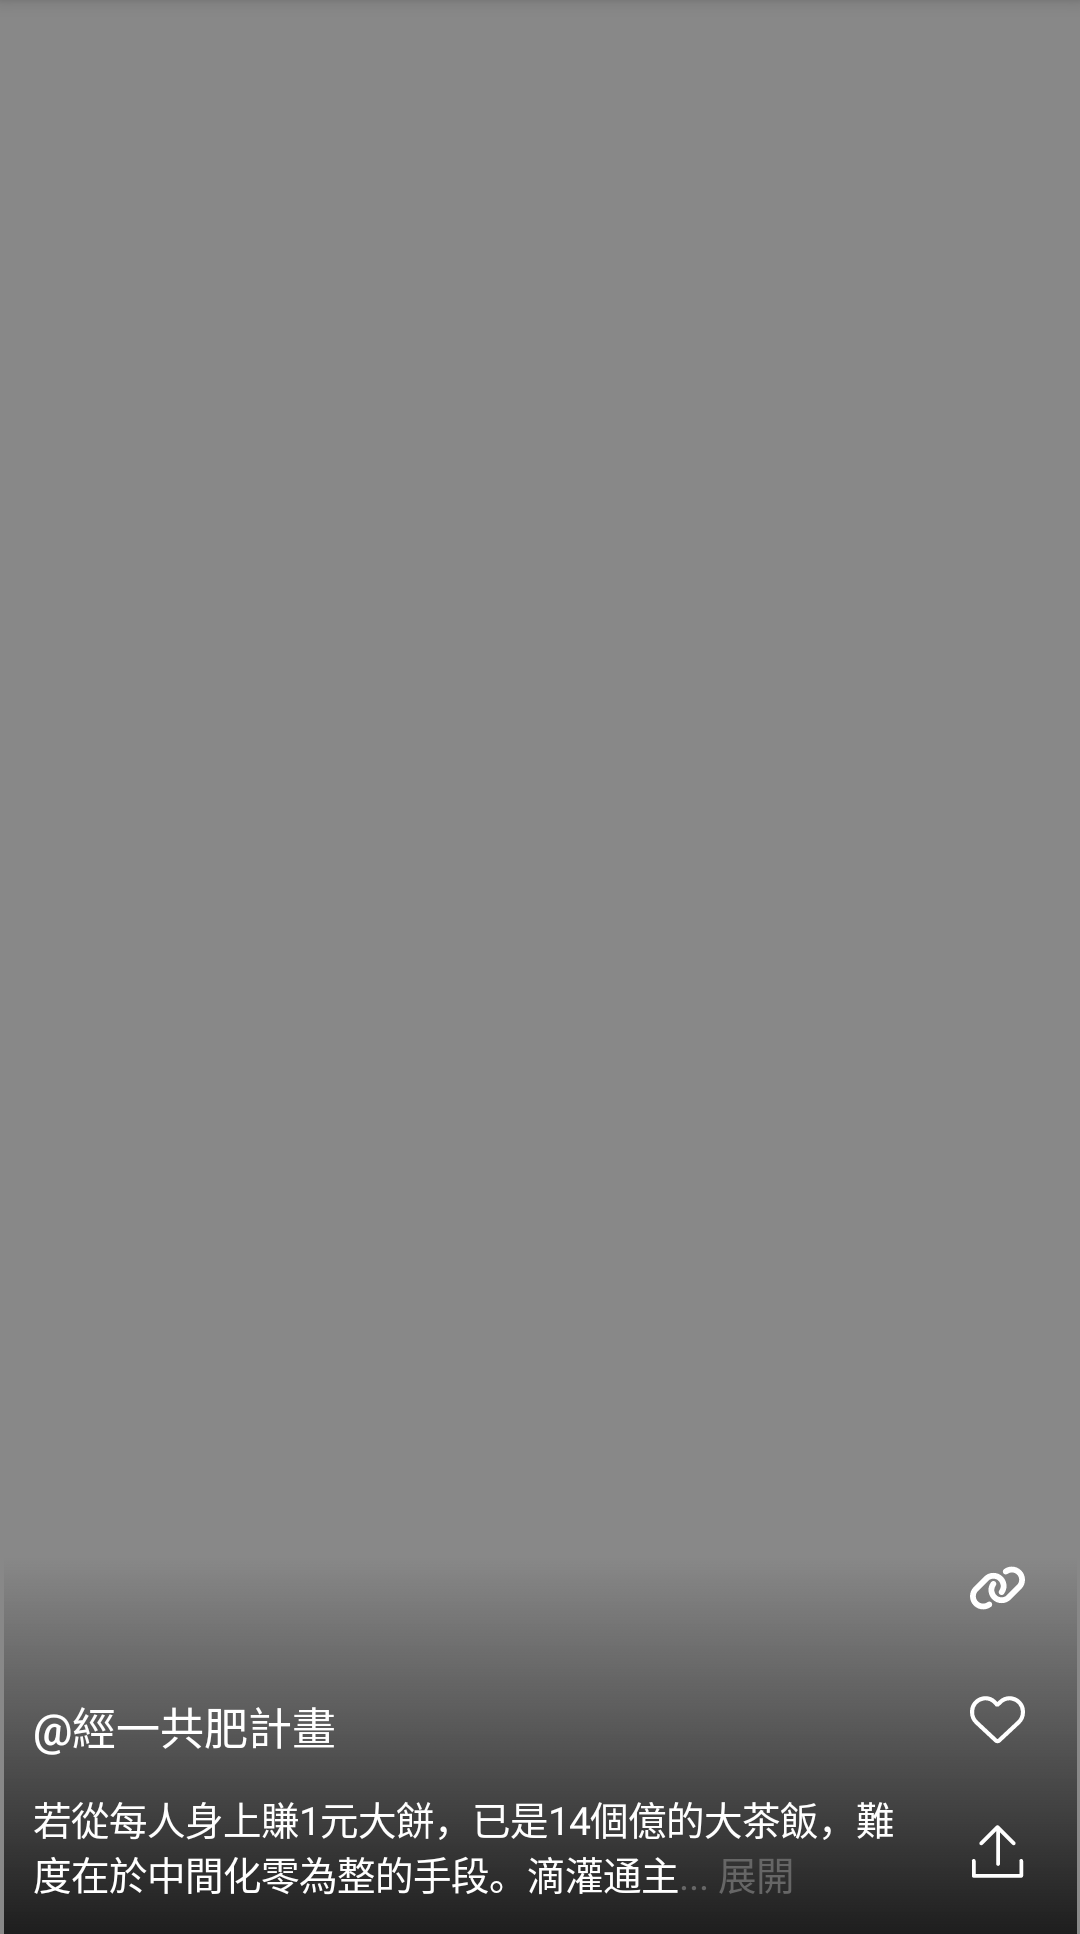
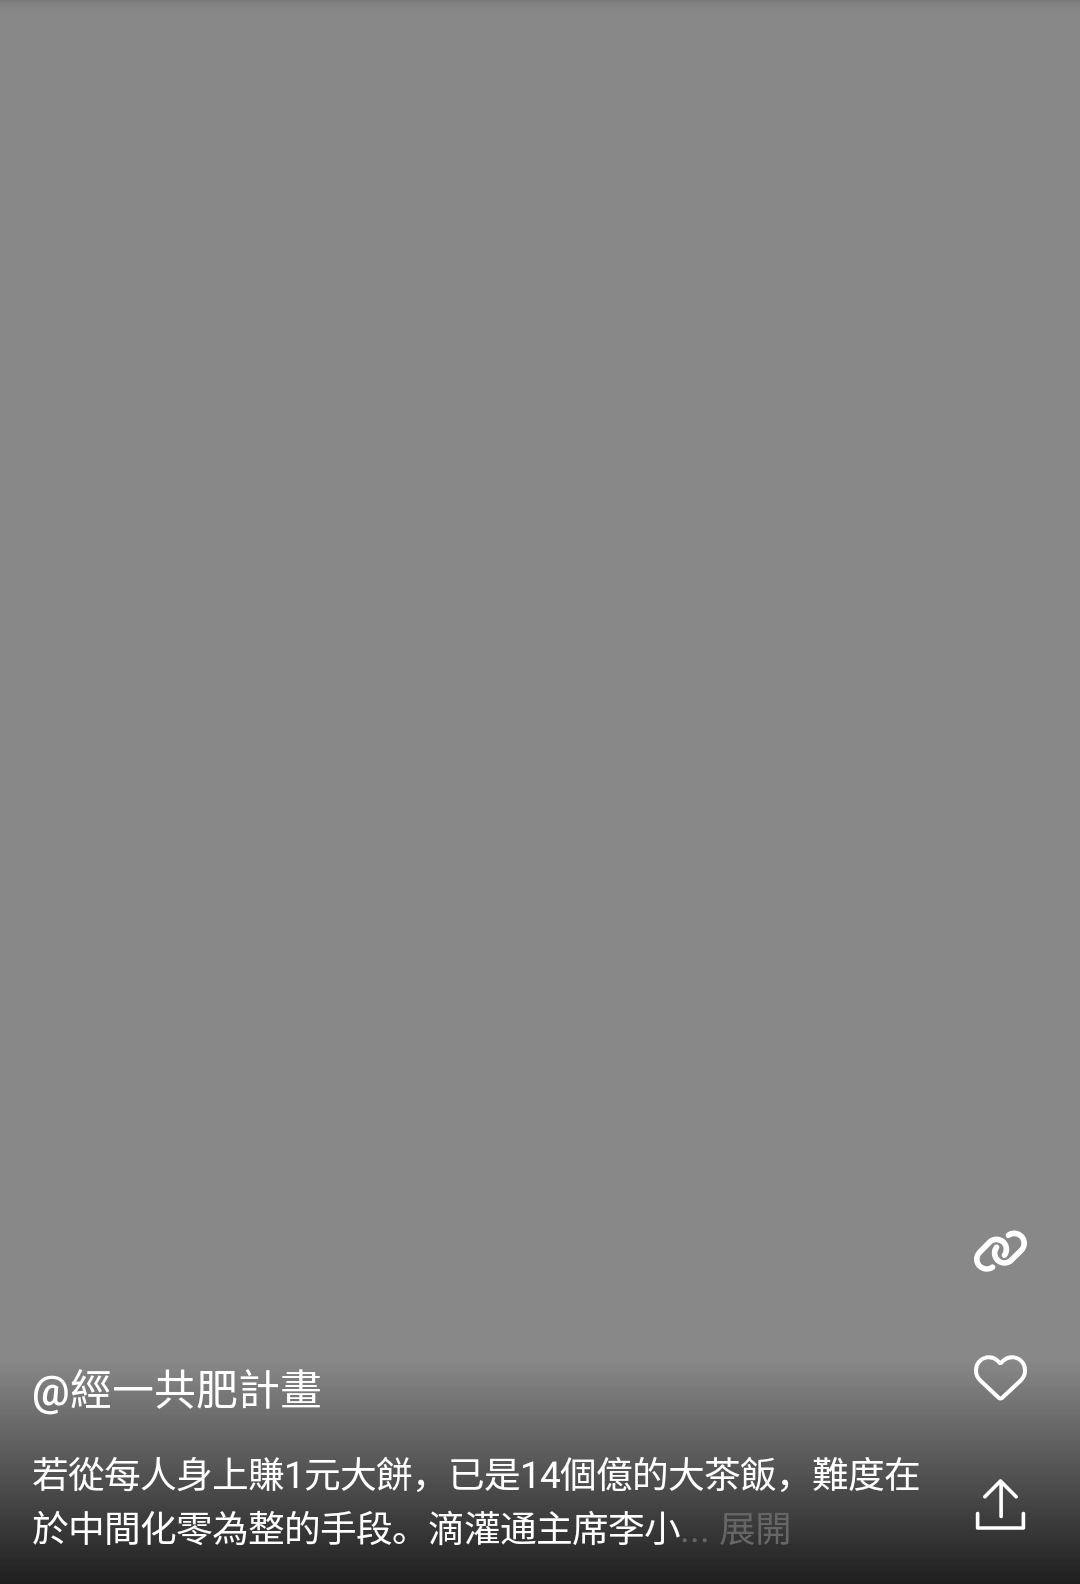
[[AOS] Instagram alike Pager ](https://app.clickup.com/t/865d1e1wk)

Changed region(s): [[0.0, 0.7734, 1.0, 1.0], [0.8861, 0.928, 0.9472, 0.9899]]

diff --git a/mobile-design/src/androidTest/java/com/nmg/mobile/design/reel/ReelPagerTest.kt b/mobile-design/src/androidTest/java/com/nmg/mobile/design/reel/ReelPagerTest.kt
@@ -1,0 +1,53 @@
+package com.nmg.mobile.design.reel
+
+import android.content.Context
+import androidx.compose.foundation.background
+import androidx.compose.foundation.layout.Box
+import androidx.compose.ui.Modifier
+import androidx.compose.ui.graphics.Color
+import androidx.compose.ui.test.junit4.createComposeRule
+import androidx.test.platform.app.InstrumentationRegistry
+import com.karumi.shot.ScreenshotTest
+import com.nmg.mobile.design.theme.NMGTheme
+import com.nmg.mobile.design.widgets.reel.ReelPager
+import com.nmg.mobile.design.widgets.reel.ReelPlayerData
+import org.junit.Before
+import org.junit.Rule
+import org.junit.Test
+
+class ReelPagerTest : ScreenshotTest {
+    @get:Rule
+    val composeRule = createComposeRule()
+
+    lateinit var instrumentationContext: Context
+
+    @Before
+    fun setup() {
+        instrumentationContext = InstrumentationRegistry.getInstrumentation().context
+    }
+
+
+    @Test
+    fun test_ReelPager() {
+        composeRule.setContent {
+            NMGTheme {
+                Box(modifier = Modifier.background(Color.Gray)) {
+                    val list = mutableListOf<ReelPlayerData>()
+                    for (item in 1..10) {
+                        list.add(object : ReelPlayerData {
+                            override var title: String = "@經一共肥計畫 $item"
+                            override var desc: String = "若從每人身上賺1元大餅，已是14個億的大茶飯，難度在於中間化零為整的手段。滴灌通主席李小加就想到了破解方案，兼開發出複利生財的投資模式，有如太極生兩儀、兩儀生四象。薑是老的辣，61歲的他下海創業，把生意經的算盤敲得響噹噹。 $item"
+                        })
+                    }
+                    NMGTheme {
+                        ReelPager(list = list)
+                    }
+                }
+            }
+        }
+        Thread.sleep(1000)
+        compareScreenshot(composeRule)
+    }
+
+
+}

diff --git a/mobile-design/src/main/java/com/nmg/mobile/design/widgets/reel/ReelPager.kt b/mobile-design/src/main/java/com/nmg/mobile/design/widgets/reel/ReelPager.kt
@@ -1,0 +1,46 @@
+package com.nmg.mobile.design.widgets.reel
+
+import androidx.compose.foundation.ExperimentalFoundationApi
+import androidx.compose.foundation.layout.Box
+import androidx.compose.foundation.layout.fillMaxHeight
+import androidx.compose.foundation.layout.fillMaxWidth
+import androidx.compose.foundation.pager.VerticalPager
+import androidx.compose.foundation.pager.rememberPagerState
+import androidx.compose.runtime.Composable
+import androidx.compose.ui.Modifier
+import androidx.compose.ui.tooling.preview.Preview
+import com.nmg.mobile.design.theme.NMGTheme
+
+@OptIn(ExperimentalFoundationApi::class)
+@Composable
+public fun ReelPager(list: MutableList<ReelPlayerData>) {
+    // Display 10 items
+    Box(modifier = Modifier
+        .fillMaxWidth()
+        .fillMaxHeight()) {
+//        val nestedScrollConnection = object: NestedScrollConnection {
+//
+//        }
+
+        val pagerState = rememberPagerState(initialPage = 0)
+        VerticalPager(pageCount = 10, state = pagerState) {
+            ReelPlayer(item = list[it]) {
+
+            }
+        }
+    }
+}
+@Preview(showBackground = true)
+@Composable
+public fun ReelPagerPreview() {
+    val list = mutableListOf<ReelPlayerData>()
+    for (item in 1..10) {
+        list.add(object : ReelPlayerData {
+            override var title: String = "@經一共肥計畫 $item"
+            override var desc: String = "若從每人身上賺1元大餅，已是14個億的大茶飯，難度在於中間化零為整的手段。滴灌通主席李小加就想到了破解方案，兼開發出複利生財的投資模式，有如太極生兩儀、兩儀生四象。薑是老的辣，61歲的他下海創業，把生意經的算盤敲得響噹噹。 $item"
+        })
+    }
+    NMGTheme {
+        ReelPager(list = list)
+    }
+}

diff --git a/mobile-design/src/main/java/com/nmg/mobile/design/widgets/reel/ReelPlayer.kt b/mobile-design/src/main/java/com/nmg/mobile/design/widgets/reel/ReelPlayer.kt
@@ -14,6 +14,7 @@ import androidx.compose.runtime.Composable
 import androidx.compose.ui.Alignment
 import androidx.compose.ui.Modifier
 import androidx.compose.ui.graphics.Color
+import androidx.compose.ui.layout.ContentScale
 import androidx.compose.ui.res.painterResource
 import androidx.compose.ui.text.TextStyle
 import androidx.compose.ui.text.font.FontWeight
@@ -33,16 +34,19 @@ public fun <Item: ReelPlayerData> ReelPlayer(item: Item, playerView: @Composable
         }
         ConstraintLayout(modifier = Modifier.fillMaxWidth().fillMaxHeight()
             .align(Alignment.BottomEnd)
-            .fillMaxWidth()
         ) {
             val (titleContainer, reelActionButtonGroup, mask) = createRefs()
             Image(modifier = Modifier.constrainAs(mask) {
                     start.linkTo(parent.start)
                     end.linkTo(parent.end)
                     bottom.linkTo(parent.bottom)
+                    top.linkTo(titleContainer.top)
+                    width = fillToConstraints
+                    height = fillToConstraints
                 },
                 painter = painterResource(id = R.drawable.reel_mask),
                 contentDescription = "",
+                contentScale = ContentScale.FillBounds
             )
             Column(
                 modifier = Modifier

diff --git a/README.md b/README.md
@@ -80,7 +80,7 @@ read more: [Installing and creating Emulators with AVDMANAGER (For Continuous In
 # Snapshot testing
 | | | | | | | |
 |-|-|-|-|-|-|-|
-| common       | ![](app/screenshots/debug/com.nmg.mobiledesignlibrary.ColorItemScreenshotTests_test_color_Alert_snapshot.png)   | ![](app/screenshots/debug/com.nmg.mobiledesignlibrary.ColorItemScreenshotTests_test_color_Black_snapshot.png) | ![](app/screenshots/debug/com.nmg.mobiledesignlibrary.ColorItemScreenshotTests_test_color_Success_snapshot.png) | ![](app/screenshots/debug/com.nmg.mobiledesignlibrary.ColorItemScreenshotTests_test_color_White_snapshot.png) |
+| common       | ![](app/screenshots/debug/com.nmg.mobiledesignlibrary.ColorItemScreenshotTests_test_color_Alert_snapshot.png)   | ![](app/screenshots/debug/com.nmg.mobiledesignlibrary.ColorItemScreenshotTests_test_color_Black_snapshot.png) | ![](app/screenshots/debug/com.nmg.mobiledesignlibrary.ColorItemScreenshotTests_test_color_Success_snapshot.png) | ![](app/screenshots/debug/com.nmg.mobiledesignlibrary.ColorItemScreenshotTests_test_color_White_snapshot.png) |     |     |     |     |     |     |     |
 | WW Light     | ![](mobile-design/screenshots/debug/com.nmg.mobile.design.colorstest.ColorsTest_test_color_ww_snapshot.png)     |                                                                                                               |                                                                                                                 |                                                                                                               |     |     |     |     |     |     |     |
 | MORE Light   | ![](mobile-design/screenshots/debug/com.nmg.mobile.design.colorstest.ColorsTest_test_color_more_snapshot.png)   |                                                                                                               |                                                                                                                 |                                                                                                               |     |     |     |     |     |     |     |
 | ED Light     | ![](mobile-design/screenshots/debug/com.nmg.mobile.design.colorstest.ColorsTest_test_color_ed_snapshot.png)     |                                                                                                               |                                                                                                                 |                                                                                                               |     |     |     |     |     |     |     |
@@ -118,19 +118,20 @@ read more: [Installing and creating Emulators with AVDMANAGER (For Continuous In
 | title5              | ![Alt text](mobile-design/screenshots/debug/com.nmg.mobile.design.typographytest.TypographyTest_test_title5.png)              |
 | titleEmphasize      | ![Alt text](mobile-design/screenshots/debug/com.nmg.mobile.design.typographytest.TypographyTest_test_titleEmphasize.png)      |
 
-| component            |                                                                                                                                                                                                                                              |
-|----------------------|----------------------------------------------------------------------------------------------------------------------------------------------------------------------------------------------------------------------------------------------|
-| chip group           | ![Alt text](mobile-design/screenshots/debug/com.nmg.mobile.design.chipgrouptest.ChipGroupTest_test_ChipGroup.png)                                                                                                                            |
-| card                 | ![Alt text](mobile-design/screenshots/debug/com.nmg.mobile.design.cardview.CardViewTest_test_CardView.png)                                                                                                                                   |
-| video player control | ![Alt text](mobile-design/screenshots/debug/com.nmg.mobile.design.videoplayer.VideoPlayerControlTest_test_VideoPlayerControlTest_LOADING.png)                                                                                              |
-|  | ![Alt text](mobile-design/screenshots/debug/com.nmg.mobile.design.videoplayer.VideoPlayerControlTest_test_VideoPlayerControlTest_PLAYING.png)                                                |
-|  | ![Alt text](mobile-design/screenshots/debug/com.nmg.mobile.design.videoplayer.VideoPlayerControlTest_test_VideoPlayerControlTest_PLAYING_TAB.png) |
-|  | ![Alt text](mobile-design/screenshots/debug/com.nmg.mobile.design.videoplayer.VideoPlayerControlTest_test_VideoPlayerControlTest_PAUSED.png)        |
-|  | ![Alt text](mobile-design/screenshots/debug/com.nmg.mobile.design.videoplayer.VideoPlayerControlTest_test_VideoPlayerControlTest_COMPLETED.png)          |
-|  | ![Alt text](mobile-design/screenshots/debug/com.nmg.mobile.design.videoplayer.VideoPlayerControlTest_test_VideoPlayerControlTest_COMPLETED_CANCEL_AUTOPLAY.png)        |
-| ReelActionButton | ![Alt text](mobile-design/screenshots/debug/com.nmg.mobiledesignlibrary.reel.ReelActionButtonTest_test_ReelActionButton.png)         |
+| component             |                                                                                                                                                                                                                                              |
+|-----------------------|----------------------------------------------------------------------------------------------------------------------------------------------------------------------------------------------------------------------------------------------|
+| chip group            | ![Alt text](mobile-design/screenshots/debug/com.nmg.mobile.design.chipgrouptest.ChipGroupTest_test_ChipGroup.png)                                                                                                                            |
+| card                  | ![Alt text](mobile-design/screenshots/debug/com.nmg.mobile.design.cardview.CardViewTest_test_CardView.png)                                                                                                                                   |
+| video player control  | ![Alt text](mobile-design/screenshots/debug/com.nmg.mobile.design.videoplayer.VideoPlayerControlTest_test_VideoPlayerControlTest_LOADING.png)                                                                                              |
+|                       | ![Alt text](mobile-design/screenshots/debug/com.nmg.mobile.design.videoplayer.VideoPlayerControlTest_test_VideoPlayerControlTest_PLAYING.png)                                                |
+|                       | ![Alt text](mobile-design/screenshots/debug/com.nmg.mobile.design.videoplayer.VideoPlayerControlTest_test_VideoPlayerControlTest_PLAYING_TAB.png) |
+|                       | ![Alt text](mobile-design/screenshots/debug/com.nmg.mobile.design.videoplayer.VideoPlayerControlTest_test_VideoPlayerControlTest_PAUSED.png)        |
+|                       | ![Alt text](mobile-design/screenshots/debug/com.nmg.mobile.design.videoplayer.VideoPlayerControlTest_test_VideoPlayerControlTest_COMPLETED.png)          |
+|                       | ![Alt text](mobile-design/screenshots/debug/com.nmg.mobile.design.videoplayer.VideoPlayerControlTest_test_VideoPlayerControlTest_COMPLETED_CANCEL_AUTOPLAY.png)        |
+| ReelActionButton      | ![Alt text](mobile-design/screenshots/debug/com.nmg.mobiledesignlibrary.reel.ReelActionButtonTest_test_ReelActionButton.png)         |
 | ReelActionButtonGroup | ![Alt text](mobile-design/screenshots/debug/com.nmg.mobiledesignlibrary.reel.ReelActionButtonGroupTest_test_ReelActionButtonGroup.png)         |
 | ReelPlayer            | ![Alt text](mobile-design/screenshots/debug/com.nmg.mobile.design.reel.ReelPlayerTest_test_ReelPlayer.png)                                                                                                                                  |
+| ReelPager             | ![Alt text](mobile-design/screenshots/debug/com.nmg.mobile.design.reel.ReelPagerTest_test_ReelPager.png)                                                                                                                                  |
 
 ## target
 
